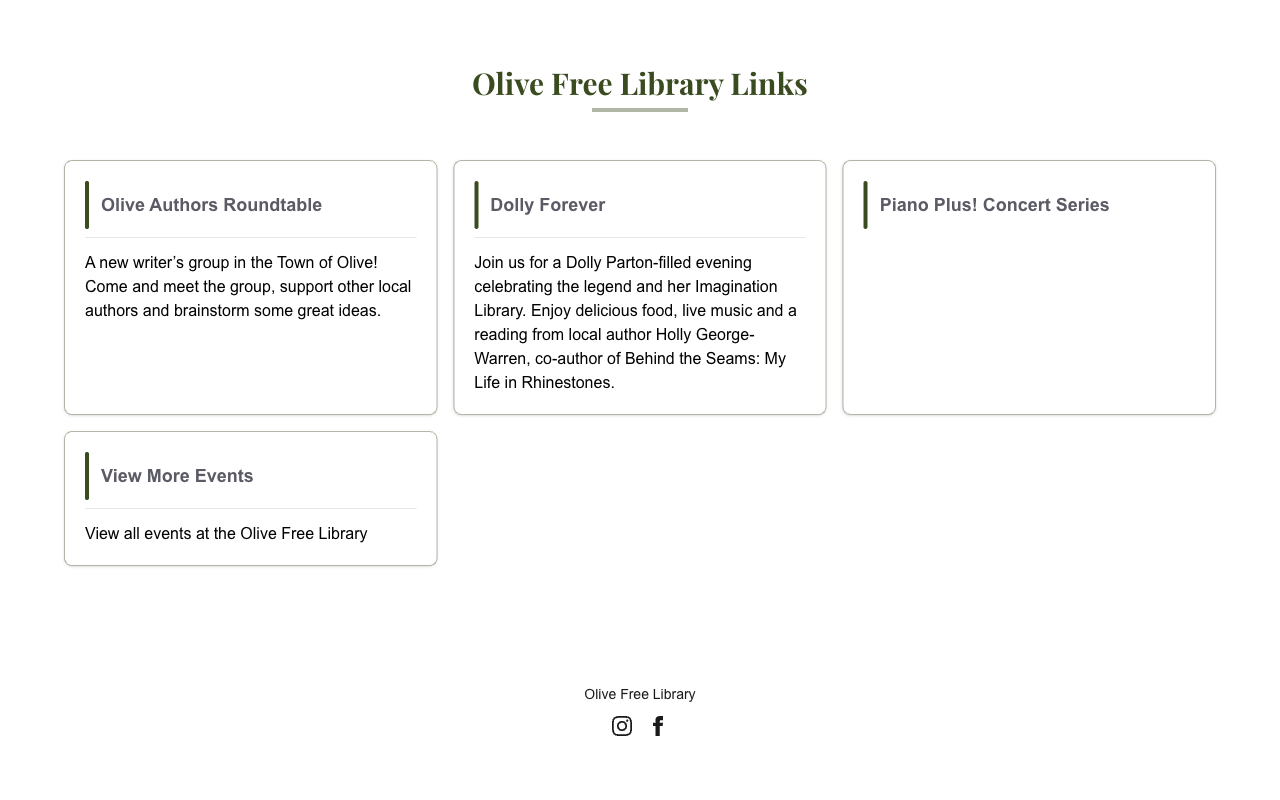
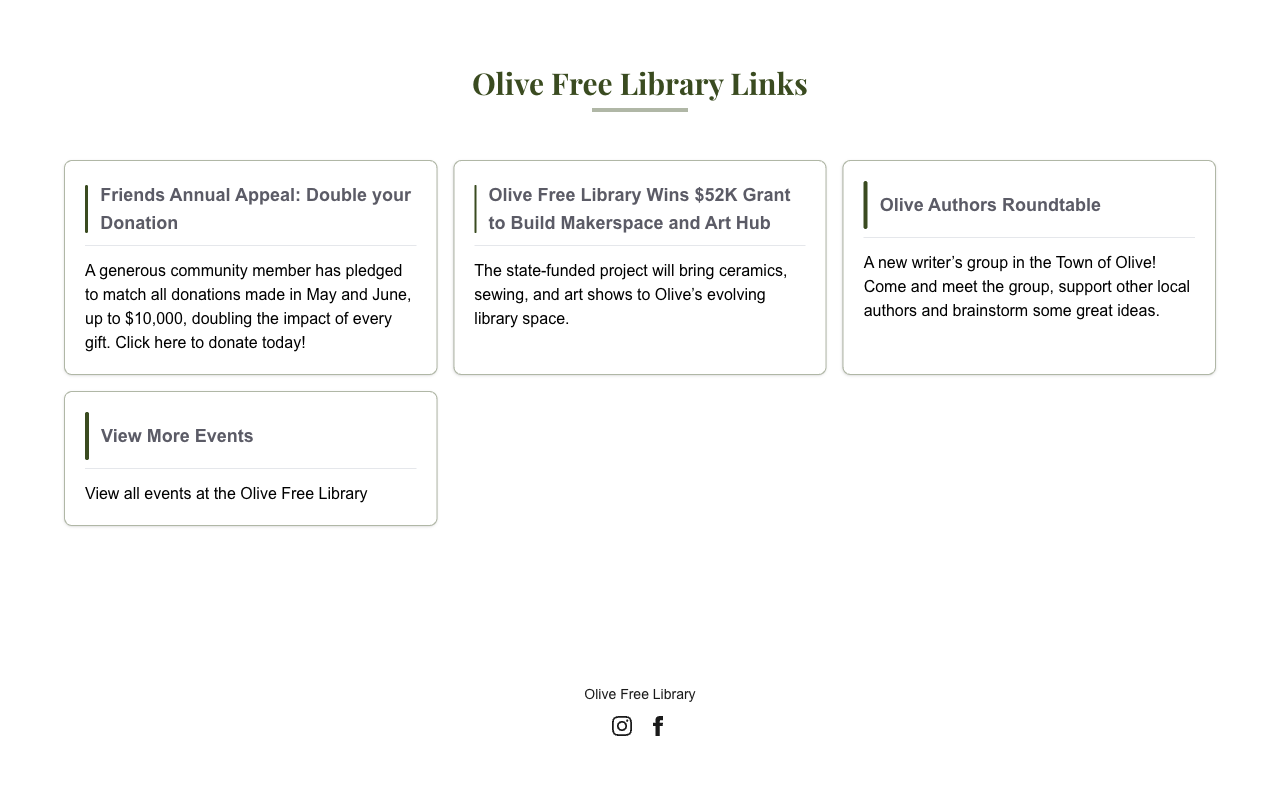
fix some things

diff --git a/puppeteer/count-links.js b/puppeteer/count-links.js
@@ -48,8 +48,7 @@ async function countLinks() {
     const contentLinks = links.filter(link => 
       !link.href.includes('instagram.com') && 
       !link.href.includes('facebook.com') && 
-      !link.href.includes('olivefreelibrary.org') &&
-      !link.href.endsWith('#')
+      !link.href.includes('olivefreelibrary.org')
     );
     
     const contentLinkCount = contentLinks.length;
